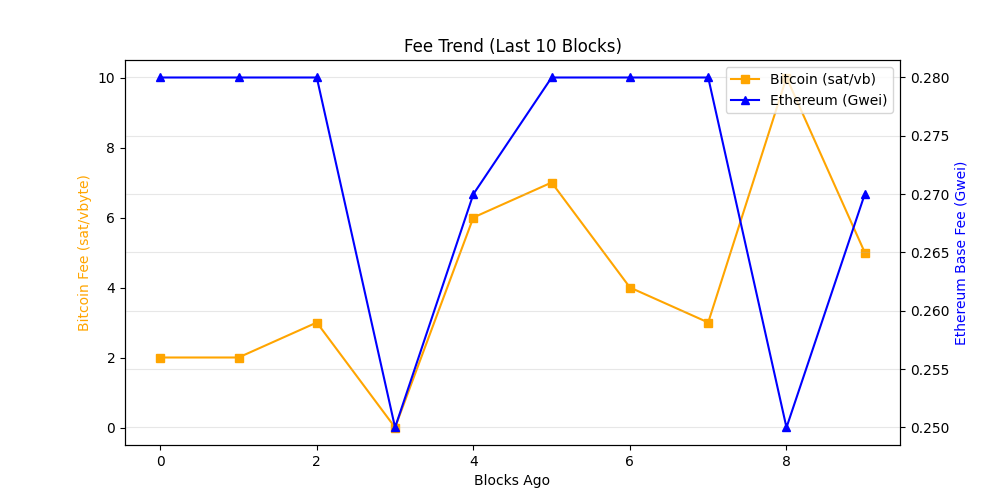
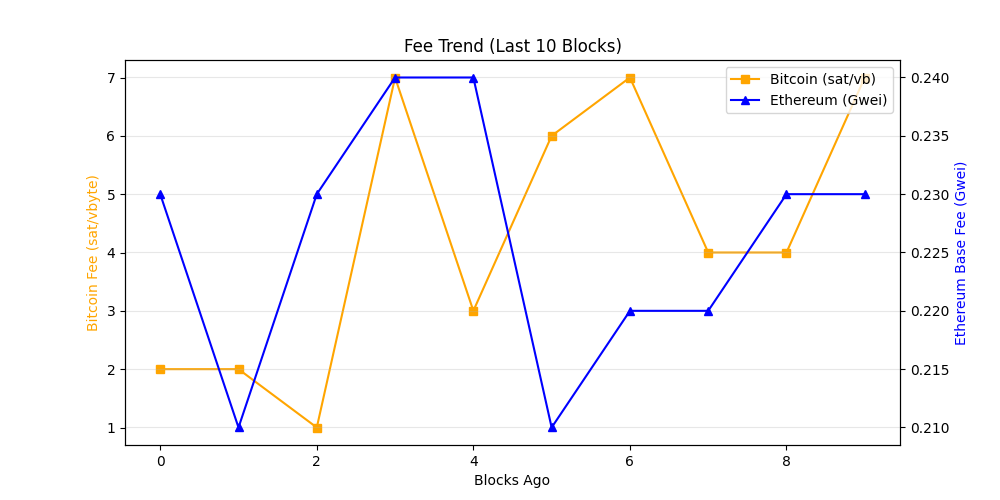
chore: update on-chain dashboard

diff --git a/README.md b/README.md
@@ -19,7 +19,7 @@ The README itself acts as the dashboard and is regenerated automatically on a 6 
 demonstrating a production-style, infrastructure-focused observability workflow rather
 than a traditional UI-driven approach.
 
-_Last updated: 2026-10-01 13:10 UTC_
+_Last updated: 2026-10-01 22:39 UTC_
 
 ## API Usage (GetBlock.io)
 - Calls used: **24**
@@ -27,8 +27,8 @@ _Last updated: 2026-10-01 13:10 UTC_
 ## Network Metrics
 | Chain | Block Height | TX Count | TPS (10 blk avg) | Block Util | Avg Fee |
 |------|-------------|----------|------------------|------------|---------|
-| Ethereum | 26097674 | 224 | 18.67 | 38.67% | 0.3 Gwei |
-| Bitcoin | 969446 | 3458 | 25.24 | 99.79% | N/A |
+| Ethereum | 26100511 | 168 | 14.0 | 44.96% | 0.2 Gwei |
+| Bitcoin | 969497 | 4203 | 1.68 | 99.8% | N/A |
 
 ## Visuals
 ### Transactions Trend
@@ -43,11 +43,11 @@ _Last updated: 2026-10-01 13:10 UTC_
 ## Whale Alerts (latest block)
 - Transaction hashes are truncated for readability.
 - Full hashes are available in `dashboards/metrics.json`
-- Bitcoin | 228.1 BTC | `c952ee8ddb04…`
-- Bitcoin | 227.95 BTC | `2cb96fad2916…`
-- Bitcoin | 227.93 BTC | `c639b781f8fe…`
-- Bitcoin | 124.85 BTC | `c53fc1b28f57…`
-- Bitcoin | 121.58 BTC | `c52b648de648…`
+- Bitcoin | 282.06 BTC | `79235dfd337e…`
+- Bitcoin | 104.11 BTC | `e1f6a457ef7e…`
+- Bitcoin | 593.44 BTC | `e03595bc78fa…`
+- Bitcoin | 123.22 BTC | `0e8764bb965a…`
+- Bitcoin | 123.22 BTC | `308b36933eb5…`
 
 ## Run locally
 
